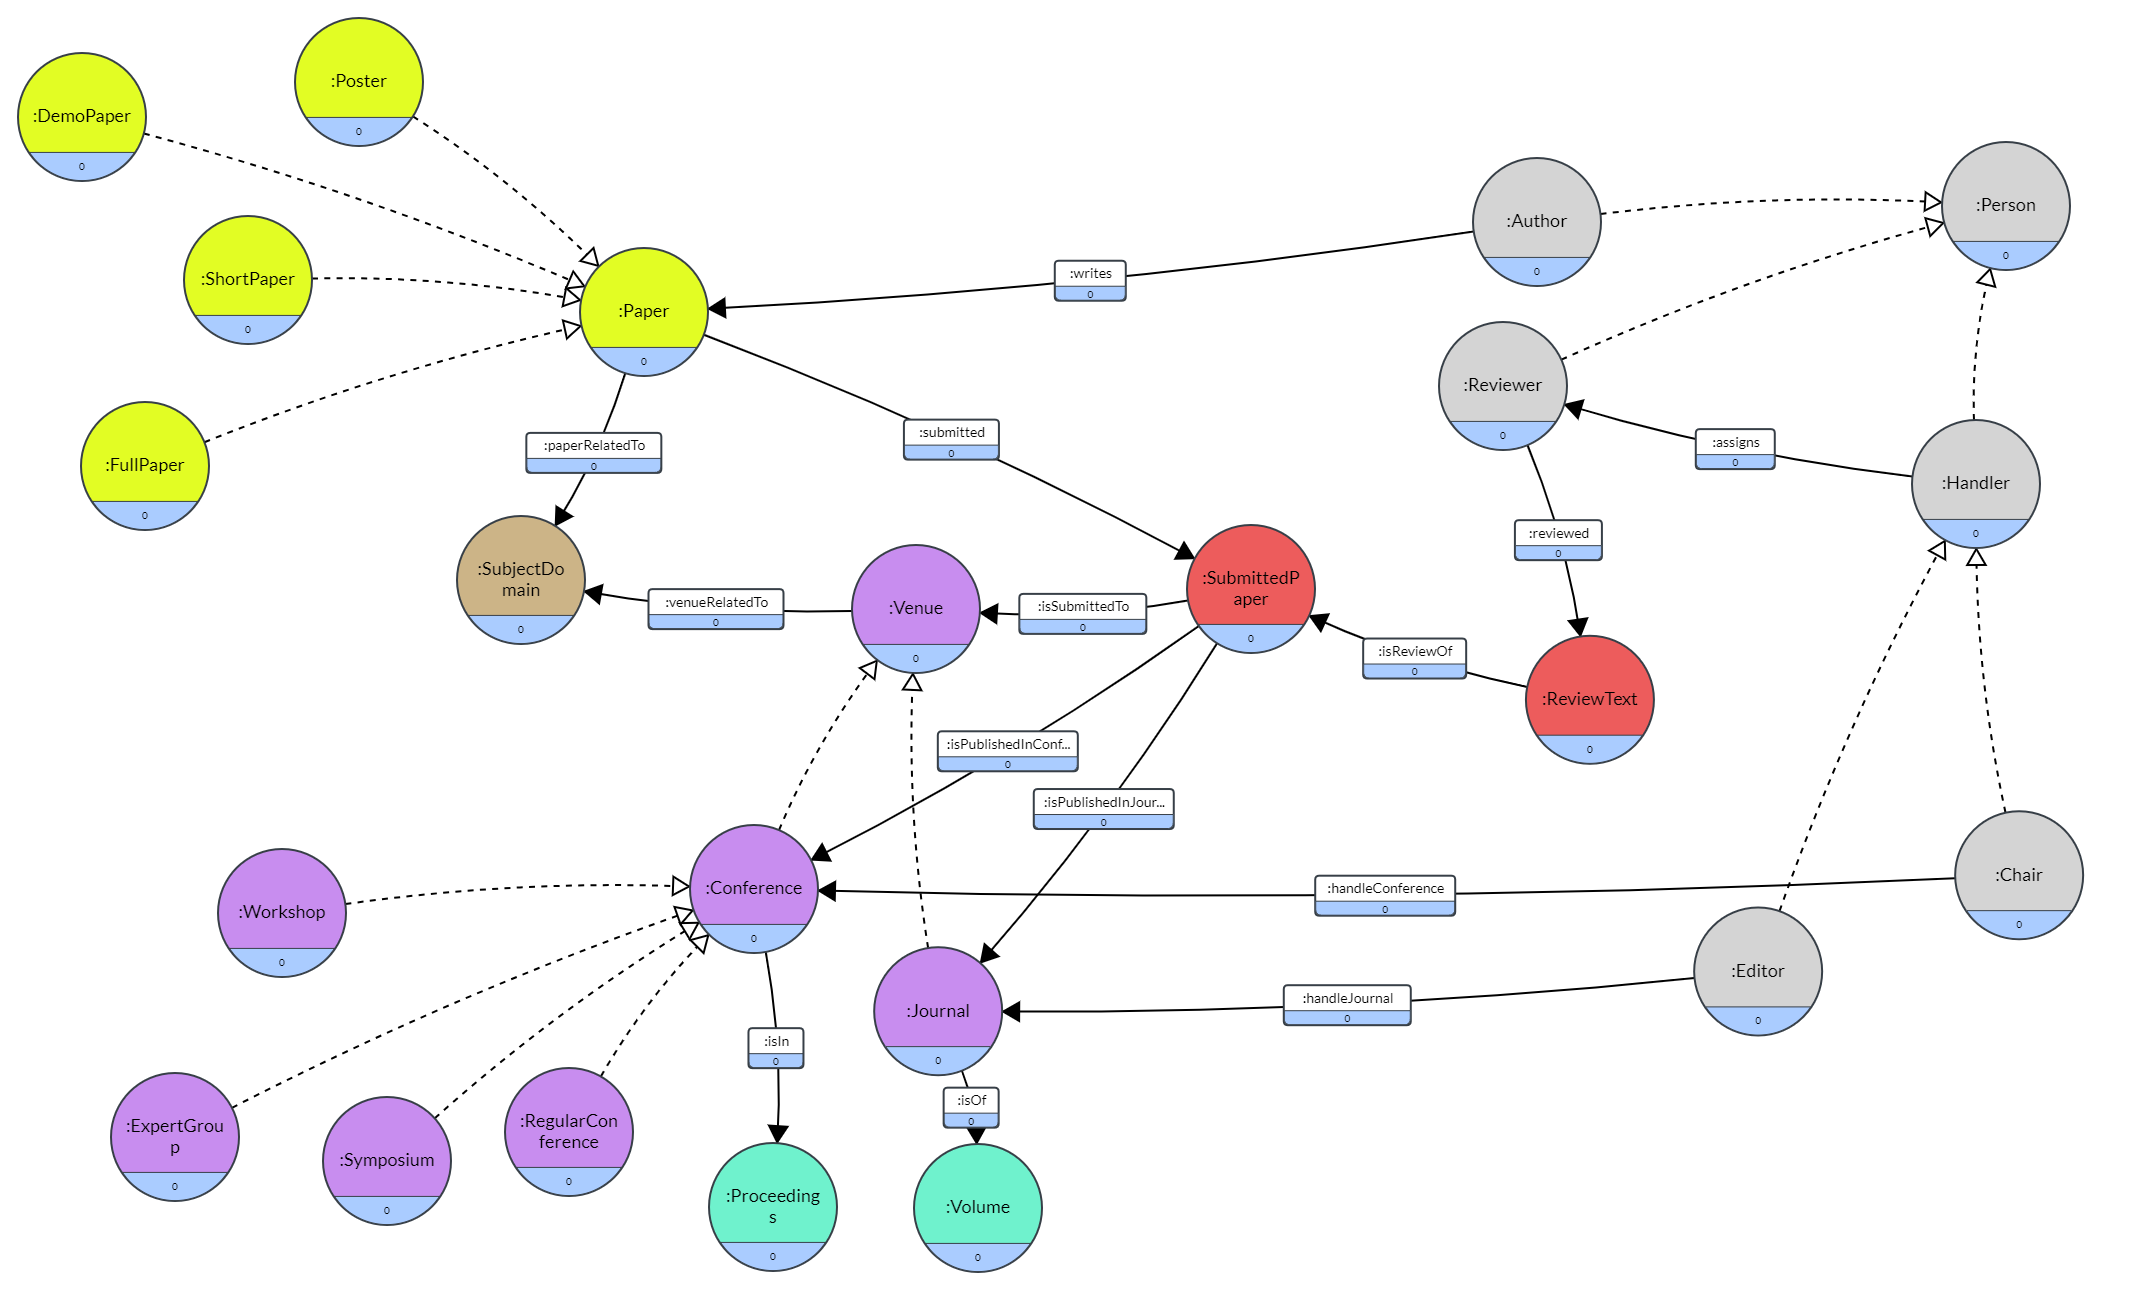
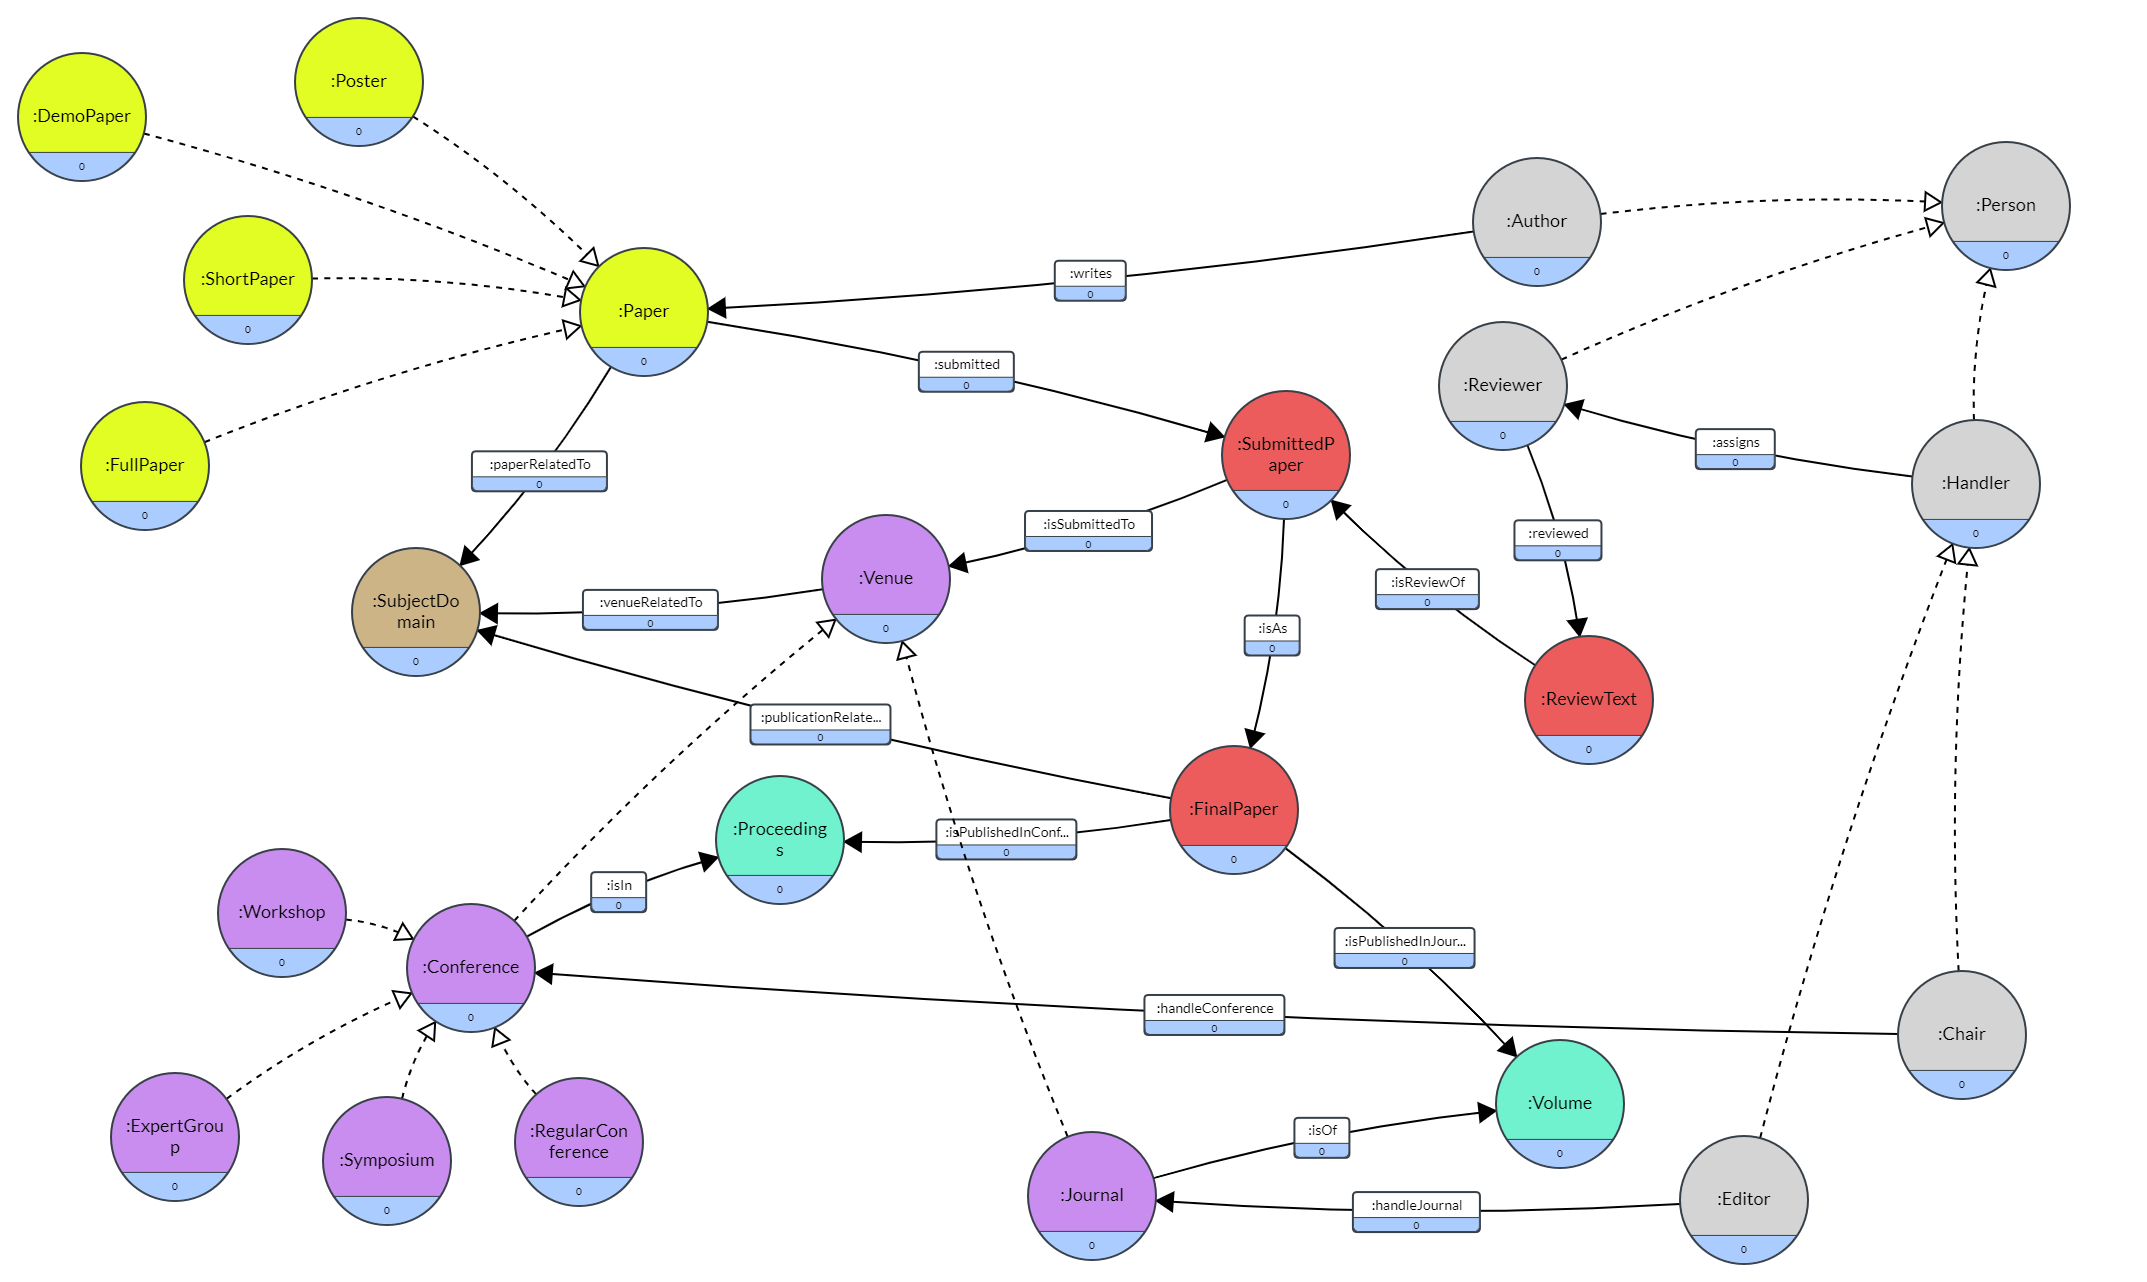
tbox modified

diff --git a/B1_TBOXCreation.py b/B1_TBOXCreation.py
@@ -18,29 +18,42 @@ def createTBOX():
 
 	# SubClasses of Paper
 	# 1.1) Poster
+	graph.add((LAB.Poster, RDF.type, RDFS.Class))
 	graph.add((LAB.Poster, RDFS.subClassOf, LAB.Paper))
 	graph.add((LAB.Poster, RDFS.label, Literal("Poster")))
 
 	# 1.2) DemoPaper
+	graph.add((LAB.DemoPaper, RDF.type, RDFS.Class))
 	graph.add((LAB.DemoPaper, RDFS.subClassOf, LAB.Paper))
 	graph.add((LAB.DemoPaper, RDFS.label, Literal("DemoPaper")))
 
 	# 1.3) ShortPaper
+	graph.add((LAB.ShortPaper, RDF.type, RDFS.Class))
 	graph.add((LAB.ShortPaper, RDFS.subClassOf, LAB.Paper))
 	graph.add((LAB.ShortPaper, RDFS.label, Literal("ShortPaper")))
 
 	# 1.4) FullPaper
+	graph.add((LAB.FullPaper, RDF.type, RDFS.Class))
 	graph.add((LAB.FullPaper, RDFS.subClassOf, LAB.Paper))
 	graph.add((LAB.FullPaper, RDFS.label, Literal("FullPaper")))
-
-	graph.add((LAB.relatedTo, RDFS.range, LAB.SubjectDomain))
-	graph.add((LAB.relatedTo, RDFS.label, Literal("relatedTo")))
 
 	graph.add((LAB.paperRelatedTo, RDF.type, RDF.Property))
 	graph.add((LAB.paperRelatedTo, RDFS.domain, LAB.Paper))
 	graph.add((LAB.paperRelatedTo, RDFS.range, LAB.SubjectDomain))
-	graph.add((LAB.paperRelatedTo, RDFS.subPropertyOf, LAB.relatedTo))
 	graph.add((LAB.paperRelatedTo, RDFS.label, Literal("paperRelatedTo")))
+
+	# Adding some additional attributes for Paper Concept
+	# 1) paperTitle
+	graph.add((LAB.paperTitle, RDF.type, RDF.Property))
+	graph.add((LAB.paperTitle, RDFS.domain, LAB.Paper))
+	graph.add((LAB.paperTitle, RDFS.range, XSD.string))
+	graph.add((LAB.paperTitle, RDFS.label, Literal("paperTitle")))
+
+	# 2) paperAbstract
+	graph.add((LAB.paperAbstract, RDF.type, RDF.Property))
+	graph.add((LAB.paperAbstract, RDFS.domain, LAB.Paper))
+	graph.add((LAB.paperAbstract, RDFS.range, XSD.string))
+	graph.add((LAB.paperAbstract, RDFS.label, Literal("paperAbstract")))
 
 	# --------------------- 2) Person Super Class --------------------------- #
 	graph.add((LAB.Person, RDF.type, RDFS.Class))
@@ -48,44 +61,53 @@ def createTBOX():
 
 	# Subclasses of Person
 	# 2.1) Author
+	graph.add((LAB.Author, RDF.type, RDFS.Class))
 	graph.add((LAB.Author, RDFS.subClassOf, LAB.Person))
 	graph.add((LAB.Author, RDFS.label, Literal("Author")))
 
+	# Adding some extra properties for Author Concept
+	graph.add((LAB.authorName, RDF.type, RDF.Property))
+	graph.add((LAB.authorName, RDFS.domain, LAB.Author))
+	graph.add((LAB.authorName, RDFS.range, XSD.string))
+	graph.add((LAB.authorName, RDFS.label, Literal("authorName")))
+
+	graph.add((LAB.writes, RDF.type, RDF.Property))
 	graph.add((LAB.writes, RDFS.domain, LAB.Author))
 	graph.add((LAB.writes, RDFS.range, LAB.Paper))
 	graph.add((LAB.writes, RDFS.label, Literal("writes")))
 
 	# 2.2) Reviewer
+	graph.add((LAB.Reviewer, RDF.type, RDFS.Class))
 	graph.add((LAB.Reviewer, RDFS.subClassOf, LAB.Person))
 	graph.add((LAB.Reviewer, RDFS.label, Literal("Reviewer")))
 
 	# 2.3) Handler: Editor or Chair
+	graph.add((LAB.Handler, RDF.type, RDFS.Class))
 	graph.add((LAB.Handler, RDFS.subClassOf, LAB.Person))
 	graph.add((LAB.Handler, RDFS.label, Literal("Handler")))
 
+	graph.add((LAB.assigns, RDF.type, RDF.Property))
 	graph.add((LAB.assigns, RDFS.domain, LAB.Handler))
 	graph.add((LAB.assigns, RDFS.range, LAB.Reviewer))
 	graph.add((LAB.assigns, RDFS.label, Literal("assigns")))
 
+	graph.add((LAB.Editor, RDF.type, RDFS.Class))
 	graph.add((LAB.Editor, RDFS.subClassOf, LAB.Handler))
 	graph.add((LAB.Editor, RDFS.label, Literal("Editor")))	
 
+	graph.add((LAB.Chair, RDF.type, RDFS.Class))
 	graph.add((LAB.Chair, RDFS.subClassOf, LAB.Handler))
 	graph.add((LAB.Chair, RDFS.label, Literal("Chair")))
 
+	graph.add((LAB.handleJournal, RDF.type, RDF.Property))
 	graph.add((LAB.handleJournal, RDFS.domain, LAB.Editor))
 	graph.add((LAB.handleJournal, RDFS.range, LAB.Journal))
 	graph.add((LAB.handleJournal, RDFS.label, Literal("handleJournal")))
 
+	graph.add((LAB.handleConference, RDF.type, RDF.Property))	
 	graph.add((LAB.handleConference, RDFS.domain, LAB.Chair))
 	graph.add((LAB.handleConference, RDFS.range, LAB.Conference))
 	graph.add((LAB.handleConference, RDFS.label, Literal("handleConference")))
-
-	# Adding some extra properties
-	graph.add((LAB.name, RDF.type, RDF.Property))
-	graph.add((LAB.name, RDFS.domain, LAB.Person))
-	graph.add((LAB.name, RDFS.range, XSD.string))
-	graph.add((LAB.name, RDFS.label, Literal("name")))
 
 
 	# --------------------- 3) Venue Super Class --------------------------- #
@@ -95,39 +117,60 @@ def createTBOX():
 	graph.add((LAB.venueRelatedTo, RDF.type, RDF.Property))
 	graph.add((LAB.venueRelatedTo, RDFS.domain, LAB.Venue))
 	graph.add((LAB.venueRelatedTo, RDFS.range, LAB.SubjectDomain))
-	graph.add((LAB.venueRelatedTo, RDFS.subPropertyOf, LAB.relatedTo))
 	graph.add((LAB.venueRelatedTo, RDFS.label, Literal("venueRelatedTo")))
 
 	# SubClasses of Venue
 	# 3.1) Journal
+	graph.add((LAB.Journal, RDF.type, RDFS.Class))
 	graph.add((LAB.Journal, RDFS.subClassOf, LAB.Venue))
 	graph.add((LAB.Journal, RDFS.label, Literal("Journal")))
+
+	# Adding properties for journal
+	graph.add((LAB.journalTitle, RDF.type, RDF.Property))
+	graph.add((LAB.journalTitle, RDFS.domain, LAB.Journal))
+	graph.add((LAB.journalTitle, RDFS.range, XSD.string))
+	graph.add((LAB.journalTitle, RDFS.label, Literal("journalTitle")))
 	
 	# 3.2) Conference
+	graph.add((LAB.Conference, RDF.type, RDFS.Class))
 	graph.add((LAB.Conference, RDFS.subClassOf, LAB.Venue))
 	graph.add((LAB.Conference, RDFS.label, Literal("Conference")))
 
+	# Adding properties for conference
+	graph.add((LAB.conferenceTitle, RDF.type, RDF.Property))
+	graph.add((LAB.conferenceTitle, RDFS.domain, LAB.Conference))
+	graph.add((LAB.conferenceTitle, RDFS.range, XSD.string))
+	graph.add((LAB.conferenceTitle, RDFS.label, Literal("conferenceTitle")))
+
 	# SubClasses of Conference
 	# 3.2.1) Workshop
+	graph.add((LAB.Workshop, RDF.type, RDFS.Class))
 	graph.add((LAB.Workshop, RDFS.subClassOf, LAB.Conference))
 	graph.add((LAB.Workshop, RDFS.label, Literal("Workshop")))
 
 	# 3.2.2) ExpertGroup
+	graph.add((LAB.ExpertGroup, RDF.type, RDFS.Class))
 	graph.add((LAB.ExpertGroup, RDFS.subClassOf, LAB.Conference))
 	graph.add((LAB.ExpertGroup, RDFS.label, Literal("ExpertGroup")))
 
 	# 3.2.3) Symposium
+	graph.add((LAB.Symposium, RDF.type, RDFS.Class))
 	graph.add((LAB.Symposium, RDFS.subClassOf, LAB.Conference))
 	graph.add((LAB.Symposium, RDFS.label, Literal("Symposium")))
 
 	# 3.2.4) RegularConference
+	graph.add((LAB.RegularConference, RDF.type, RDFS.Class))
 	graph.add((LAB.RegularConference, RDFS.subClassOf, LAB.Conference))
 	graph.add((LAB.RegularConference, RDFS.label, Literal("RegularConference")))
 
+	# Since properties cannot have same name, conferences are linked to proceedings using :isIn
+	# while journals are linked to volume using :isOf 
+	graph.add((LAB.isIn, RDF.type, RDF.Property))
 	graph.add((LAB.isIn, RDFS.domain, LAB.Conference))
 	graph.add((LAB.isIn, RDFS.range, LAB.Proceedings))
 	graph.add((LAB.isIn, RDFS.label, Literal("isIn")))
 
+	graph.add((LAB.isOf, RDF.type, RDF.Property))
 	graph.add((LAB.isOf, RDFS.domain, LAB.Journal))
 	graph.add((LAB.isOf, RDFS.range, LAB.Volume))
 	graph.add((LAB.isOf, RDFS.label, Literal("isOf")))
@@ -135,30 +178,64 @@ def createTBOX():
 	graph.add((LAB.Proceedings, RDF.type, RDFS.Class))
 	graph.add((LAB.Proceedings, RDFS.label, Literal("Proceedings")))
 
+	# Adding properties for proceedings
+	graph.add((LAB.proceedingName, RDF.type, RDF.Property))
+	graph.add((LAB.proceedingName, RDFS.domain, LAB.Proceedings))
+	graph.add((LAB.proceedingName, RDFS.range, XSD.string))
+	graph.add((LAB.proceedingName, RDFS.label, Literal("proceedingName")))	
+
+	graph.add((LAB.proceedingYear, RDF.type, RDF.Property))
+	graph.add((LAB.proceedingYear, RDFS.domain, LAB.Proceedings))
+	graph.add((LAB.proceedingYear, RDFS.range, XSD.int))
+	graph.add((LAB.proceedingYear, RDFS.label, Literal("proceedingYear")))
+
 	graph.add((LAB.Volume, RDF.type, RDFS.Class))
 	graph.add((LAB.Volume, RDFS.label, Literal("Volume")))
+
+	# Adding properties for volume
+	graph.add((LAB.volumeName, RDF.type, RDF.Property))
+	graph.add((LAB.volumeName, RDFS.domain, LAB.Volume))
+	graph.add((LAB.volumeName, RDFS.range, XSD.string))
+	graph.add((LAB.volumeName, RDFS.label, Literal("volumeName")))	
+
+	graph.add((LAB.volumeYear, RDF.type, RDF.Property))
+	graph.add((LAB.volumeYear, RDFS.domain, LAB.Volume))
+	graph.add((LAB.volumeYear, RDFS.range, XSD.int))
+	graph.add((LAB.volumeYear, RDFS.label, Literal("volumeYear")))
 
 	# --------------------- 4) SubjectDomain Super Class --------------------------- #
 	graph.add((LAB.SubjectDomain, RDF.type, RDFS.Class))
 	graph.add((LAB.SubjectDomain, RDFS.label, Literal("SubjectDomain")))
 
+	# Adding property for SubjectDomain Concept
+	graph.add((LAB.keywords, RDF.type, RDF.Property))
+	graph.add((LAB.keywords, RDFS.domain, LAB.SubjectDomain))
+	graph.add((LAB.keywords, RDFS.range, XSD.string))
+	graph.add((LAB.keywords, RDFS.label, Literal("keywords")))
+
 	# --------------------- 5) Review related Classes --------------------------- #
 	graph.add((LAB.ReviewText, RDF.type, RDFS.Class))
 	graph.add((LAB.ReviewText, RDFS.label, Literal("ReviewText")))
 
+	graph.add((LAB.reviewed, RDF.type, RDF.Property))
 	graph.add((LAB.reviewed, RDFS.domain, LAB.Reviewer))
 	graph.add((LAB.reviewed, RDFS.range, LAB.ReviewText))
 	graph.add((LAB.reviewed, RDFS.label, Literal("reviewed")))
 
+	graph.add((LAB.isReviewOf, RDF.type, RDF.Property))
 	graph.add((LAB.isReviewOf, RDFS.domain, LAB.ReviewText))
 	graph.add((LAB.isReviewOf, RDFS.range, LAB.SubmittedPaper))
 	graph.add((LAB.isReviewOf, RDFS.label, Literal("isReviewOf")))
 
-	# some other semantics
+	# Adding some extra properties for Review Concept
+	# 1) comment
+	graph.add((LAB.comment, RDF.type, RDF.Property))
 	graph.add((LAB.comment, RDFS.domain, LAB.ReviewText))
 	graph.add((LAB.comment, RDFS.range, XSD.string))
 	graph.add((LAB.comment, RDFS.label, Literal("comment")))
 
+	# 2) decision
+	graph.add((LAB.decision, RDF.type, RDF.Property))
 	graph.add((LAB.decision, RDFS.domain, LAB.ReviewText))
 	graph.add((LAB.decision, RDFS.range, XSD.boolean))
 	graph.add((LAB.decision, RDFS.label, Literal("decision")))
@@ -167,54 +244,45 @@ def createTBOX():
 	graph.add((LAB.SubmittedPaper, RDF.type, RDFS.Class))
 	graph.add((LAB.SubmittedPaper, RDFS.label, Literal("SubmittedPaper")))
 
+	graph.add((LAB.submitted, RDF.type, RDF.Property))
 	graph.add((LAB.submitted, RDFS.domain, LAB.Paper))
 	graph.add((LAB.submitted, RDFS.range, LAB.SubmittedPaper))
 	graph.add((LAB.submitted, RDFS.label, Literal("submitted")))
 
+	graph.add((LAB.isSubmittedTo, RDF.type, RDF.Property))
 	graph.add((LAB.isSubmittedTo, RDFS.domain, LAB.SubmittedPaper))
 	graph.add((LAB.isSubmittedTo, RDFS.range, LAB.Venue))
 	graph.add((LAB.isSubmittedTo, RDFS.label, Literal("isSubmittedTo")))
 
-	graph.add((LAB.isPublishedInConference, RDFS.domain, LAB.SubmittedPaper))
-	graph.add((LAB.isPublishedInConference, RDFS.range, LAB.Conference))
+	# --------------------- 7) FinalPaper related Classes --------------------------- #	
+	graph.add((LAB.FinalPaper, RDF.type, RDFS.Class))
+	graph.add((LAB.FinalPaper, RDFS.label, Literal("FinalPaper")))
+
+	graph.add((LAB.paperAcceptanceDate, RDF.type, RDF.Property))
+	graph.add((LAB.paperAcceptanceDate, RDFS.domain, LAB.FinalPaper))
+	graph.add((LAB.paperAcceptanceDate, RDFS.range, XSD.date))
+	graph.add((LAB.paperAcceptanceDate, RDFS.label, Literal("paperAcceptanceDate")))
+
+	graph.add((LAB.publicationRelatedTo, RDF.type, RDF.Property))
+	graph.add((LAB.publicationRelatedTo, RDFS.domain, LAB.FinalPaper))
+	graph.add((LAB.publicationRelatedTo, RDFS.range, LAB.SubjectDomain))
+	graph.add((LAB.publicationRelatedTo, RDFS.label, Literal("publicationRelatedTo")))
+
+	graph.add((LAB.isAs, RDF.type, RDF.Property))
+	graph.add((LAB.isAs, RDFS.domain, LAB.SubmittedPaper))
+	graph.add((LAB.isAs, RDFS.range, LAB.FinalPaper))
+	graph.add((LAB.isAs, RDFS.label, Literal("isAs")))
+
+	graph.add((LAB.isPublishedInConference, RDF.type, RDF.Property))
+	graph.add((LAB.isPublishedInConference, RDFS.domain, LAB.FinalPaper))
+	graph.add((LAB.isPublishedInConference, RDFS.range, LAB.Proceedings))
 	graph.add((LAB.isPublishedInConference, RDFS.label, Literal("isPublishedInConference")))
 
-	graph.add((LAB.isPublishedInJournal, RDFS.domain, LAB.SubmittedPaper))
-	graph.add((LAB.isPublishedInJournal, RDFS.range, LAB.Journal))
+	graph.add((LAB.isPublishedInJournal, RDF.type, RDF.Property))
+	graph.add((LAB.isPublishedInJournal, RDFS.domain, LAB.FinalPaper))
+	graph.add((LAB.isPublishedInJournal, RDFS.range, LAB.Volume))
 	graph.add((LAB.isPublishedInJournal, RDFS.label, Literal("isPublishedInJournal")))
-
-
-	# Some other properties
-	graph.add((LAB.title, RDF.type, RDF.Property))
-	graph.add((LAB.title, RDFS.label, Literal("title")))
-	graph.add((LAB.title, RDFS.range, XSD.string))
-
-	# SubProperties of title - paperTitle, conferenceTitle, journalTitle
-	graph.add((LAB.paperTitle, RDF.type, RDF.Property))
-	graph.add((LAB.paperTitle, RDFS.domain, LAB.Paper))
-	graph.add((LAB.paperTitle, RDFS.range, XSD.string))
-	graph.add((LAB.paperTitle, RDFS.subPropertyOf, LAB.title))
-	graph.add((LAB.paperTitle, RDFS.label, Literal("paperTitle")))
-
-	graph.add((LAB.conferenceTitle, RDF.type, RDF.Property))
-	graph.add((LAB.conferenceTitle, RDFS.domain, LAB.Conference))
-	graph.add((LAB.conferenceTitle, RDFS.range, XSD.string))
-	graph.add((LAB.conferenceTitle, RDFS.subPropertyOf, LAB.title))
-	graph.add((LAB.conferenceTitle, RDFS.label, Literal("conferenceTitle")))
-
-	graph.add((LAB.journalTitle, RDF.type, RDF.Property))
-	graph.add((LAB.journalTitle, RDFS.domain, LAB.Journal))
-	graph.add((LAB.journalTitle, RDFS.range, XSD.string))
-	graph.add((LAB.journalTitle, RDFS.subPropertyOf, LAB.title))
-	graph.add((LAB.journalTitle, RDFS.label, Literal("journalTitle")))
-
-	# additional properties of paper
-	graph.add((LAB.paperAbstract, RDF.type, RDF.Property))
-	graph.add((LAB.paperAbstract, RDFS.domain, LAB.Paper))
-	graph.add((LAB.paperAbstract, RDFS.range, XSD.string))
-	# graph.add((LAB.paperAbstract, RDFS.subPropertyOf, LAB.title))
-	graph.add((LAB.paperAbstract, RDFS.label, Literal("paperAbstract")))
-
+	
 	return graph
 
 graph = createTBOX()
